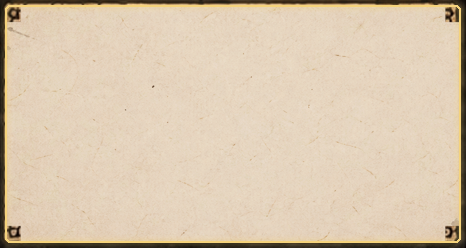
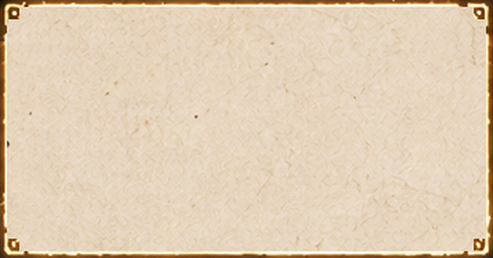
Equipment page: use the artists' V2 complete scroll (one unrolled scroll under all three blocks) in place of the separate pages, spine, roster panel and frame; title plate and three roster card slots per the pack placement, empty roster slots shown as dimmed cards

Changed region(s): [[0.0, 0.0, 1.0, 1.0], [0.2704, 0.4516, 0.3004, 0.5081], [0.2103, 0.3105, 0.2403, 0.3387]]

diff --git a/docs/system_menu/裝備頁_骨架包回饋_v1.md b/docs/system_menu/裝備頁_骨架包回饋_v1.md
@@ -4,17 +4,17 @@
 實機看過了，整體方向很好（卡片、格子、紙面的細框與角花都對得上概念圖）。以下是需要補件與修正的地方，依緊急程度排列。
 
 ## 一、檔案問題（請補件）
-1. **`equip_scroll_frame.png` 是 0 位元組的空檔**（zip 內的檔案大小就是 0，清單寫 1610×1040）。
+1. ~~`equip_scroll_frame.png` 是 0 位元組的空檔~~ → V2 完整卷軸已取代，作廢。
 2. **空格剪影三張被矩形裁切**：`equip_empty_hands`、`equip_empty_feet`、`equip_empty_accessory`。邊緣是直線硬切、殘留紙面背景碎片（左上角斑駁淺色塊），有效寬度約 56–63 像素（其他五張約 96）；三張用同一個裁切範圍。其餘五張乾淨。
 
 ## 二、規格要改（這是我們規格寫錯，抱歉）
-3. **底層大卷軸**：概念圖是**一張超大的卷軸整個撐開，墊在三個區塊底下**（左面板、中頁、右頁），左右兩端各有一根軸頭。我們原本只寫了「中頁與右頁的卷軸」，所以第一批只做了 1610×1040 的外框，左面板就懸在卷軸外面。
+3. （已由 V2 解決）**底層大卷軸**：概念圖是**一張超大的卷軸整個撐開，墊在三個區塊底下**（左面板、中頁、右頁），左右兩端各有一根軸頭。我們原本只寫了「中頁與右頁的卷軸」，所以第一批只做了 1610×1040 的外框，左面板就懸在卷軸外面。
    - 請改成**全寬版本**：約 x 20–1140、y 74–592（2×：2240 × 1036），透明中空，兩端軸頭在左面板左側與右頁右側都看得到；九宮格邊界請標明。
    - 詳見 `裝備頁_美術規格.md` 的 **J. 底層大卷軸**，示意在 `裝備頁_美術尺寸配置圖.svg`（虛線大框）。
    - 左面板、左頁、右頁維持現狀，疊在大卷軸上面。
 
 ## 三、角色卡片（待老闆說明）
-4. 老闆反映「**角色 SLOT 沒有做好**」，我們正在確認是指哪一項（可能是：只有三態卡、沒有**空位**樣式；或卡片缺少職業／血條框等版型細節）。確認後補在這份回饋的下一版。
+4. 角色 SLOT：V2 重做了三個卡槽；仍缺**空位樣式**（名冊不足三位時我們目前用一般卡槽染暗頂替）。
 
 ## 四、已確認沒問題
 - 所有尺寸與規格一致（2× 像素）；卡片三態、裝備格四態齊全；頭像框與空格剪影透明度正確。
